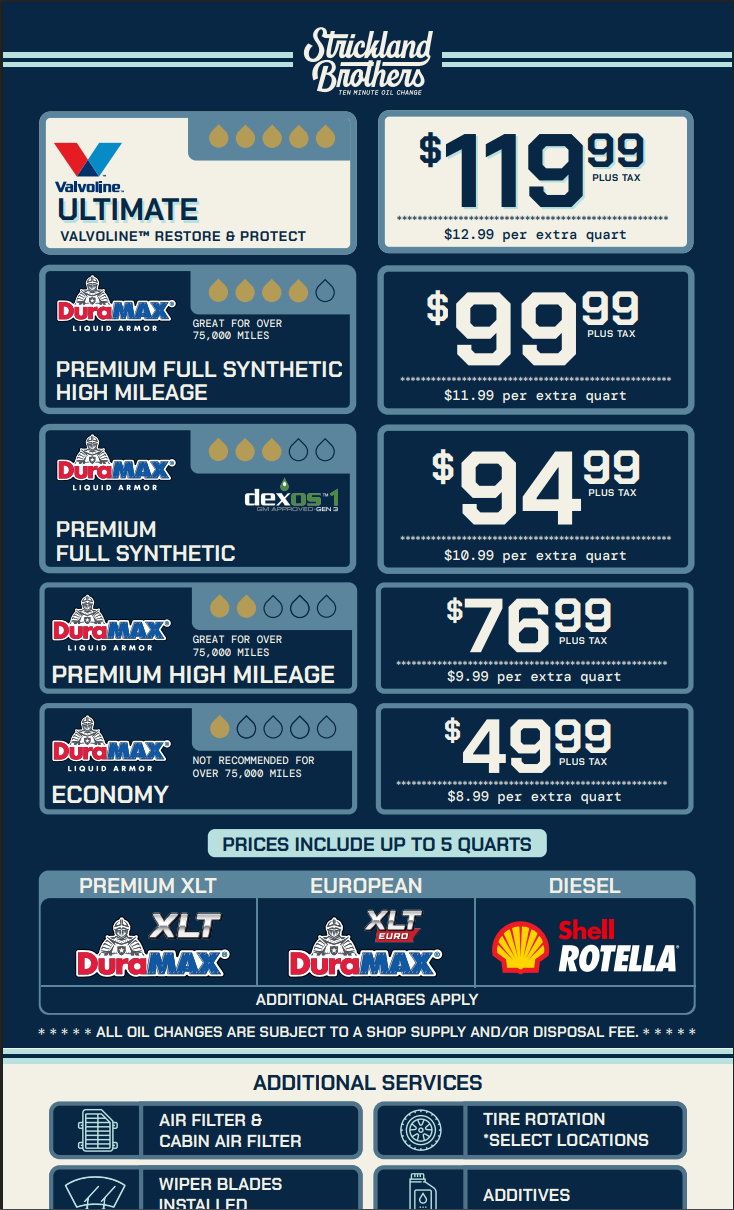
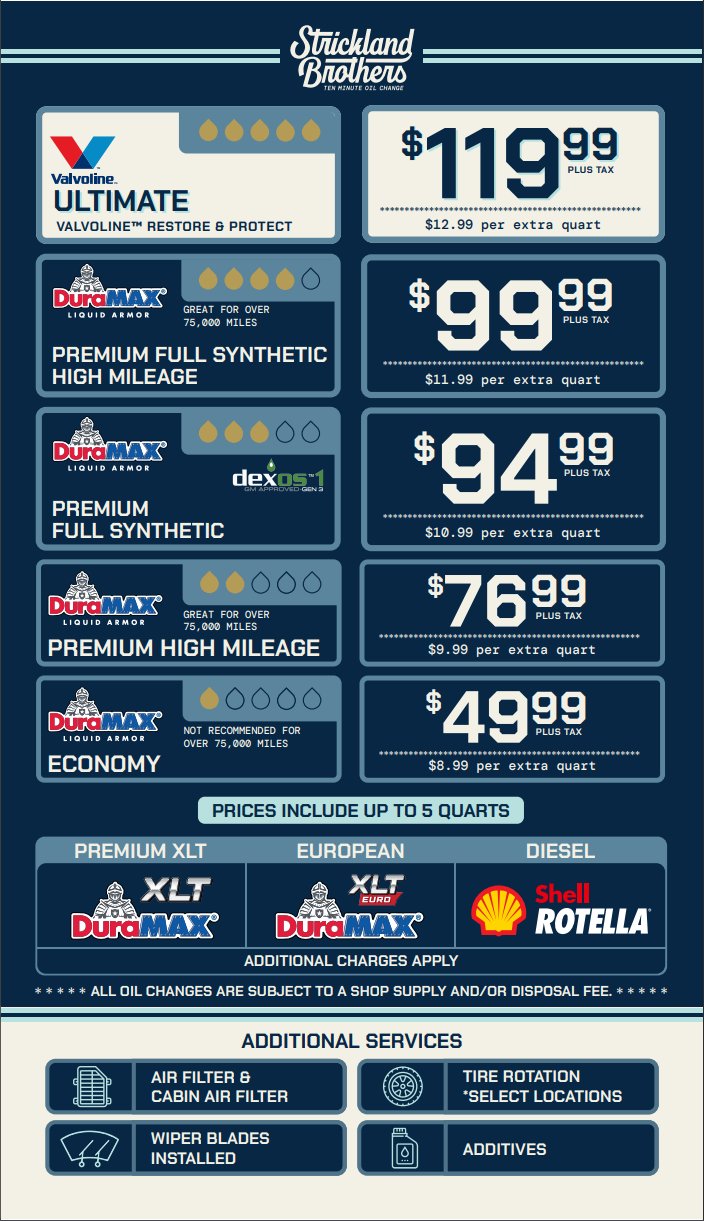
Menu Board: full-height page-1 art + printed-board price treatment
- Swapped in the user's re-exported Menu-Board-Page-1.png (704×1221) — the
  earlier file was cropped at the bottom mid-Additional-Services; this one
  is complete.
- Price is now rendered as the composite the printed board uses: a small
  "$", big whole dollars, a superscript cents pair, and "PLUS TAX" tucked
  directly under the cents (new PriceComposite component), instead of one
  flat "$116.99" string. Sizes are fractions of the big-digit size, tops
  aligned so "$" and cents sit up at the top of the number like the art.
- Re-measured all five price/quart positions + font sizes against the new
  image and wrote them to marketing.menu_board_packages. Patch height
  tightened to 1.28× the font so it covers the printed digits but still
  clears the dotted separator on every row (verified numerically against
  the measured dotted-line positions).
- BOARD_SLOTS simplified to two sets (which keys have a spot, which box is
  the cream ULTIMATE tier).

diff --git a/src/modules/marketing/menuboard/MenuBoardPage.tsx b/src/modules/marketing/menuboard/MenuBoardPage.tsx
@@ -44,22 +44,17 @@ const PRICE_COLUMN_OPTIONS: { value: string; label: string }[] = [
 // staff reference sheet on page 2) is the genuine artwork. The only thing
 // that's ever dynamic is each package's price and per-extra-quart line, so
 // those two spots per package get a small solid patch (matching that box's
-// own real background color, sampled from the image) painted behind the
-// live text — everything else is the image, untouched. Page 1's native
-// size is 734×1210; positions below were measured directly off its pixels
-// as percentages, so they hold at any rendered width.
-// One (rp/"Valvoline Restore & Protect") box is styled cream-bg/navy-text
-// ("ULTIMATE" highlight tier) — every other box on the real board is
-// navy-bg/cream-text. Position/size are % of the image, measured from the
-// actual artwork; admins can still nudge them via "Edit layout" if a future
-// re-export shifts things slightly.
-const BOARD_SLOTS: Record<string, { cream: boolean; price: { x: number; y: number }; quart: { x: number; y: number } }> = {
-  valvoline_restore_protect:   { cream: true,  price: { x: 72.3, y: 14.0 }, quart: { x: 72.8, y: 19.3 } },
-  premium_full_synthetic_hm:   { cream: false, price: { x: 72.5, y: 27.1 }, quart: { x: 72.8, y: 32.6 } },
-  premium_full_synthetic:      { cream: false, price: { x: 73.0, y: 40.3 }, quart: { x: 72.8, y: 45.8 } },
-  premium_hm:                  { cream: false, price: { x: 72.0, y: 51.7 }, quart: { x: 72.7, y: 55.8 } },
-  economy:                     { cream: false, price: { x: 71.8, y: 61.7 }, quart: { x: 72.7, y: 65.7 } },
-}
+// own real background color) painted behind the live text — everything else
+// is the image, untouched. Page 1's native size is 704×1221; the DB's
+// price_pos_x/y / quart_pos_x/y (percentages, measured off the image, and
+// draggable via "Edit layout") hold at any rendered width.
+// Only the rp/"Valvoline Restore & Protect" box is cream-bg/navy-text (the
+// "ULTIMATE" highlight tier); every other box is navy-bg/cream-text. Any
+// package_key not listed here has no known spot on the art and is skipped.
+const CREAM_BOX_KEYS = new Set(['valvoline_restore_protect'])
+const BOARD_SLOT_KEYS = new Set([
+  'valvoline_restore_protect', 'premium_full_synthetic_hm', 'premium_full_synthetic', 'premium_hm', 'economy',
+])
 
 /**
  * Menu Board — an on-screen recreation of the printed lobby/bay board,
@@ -236,29 +231,35 @@ function Board({ location, packages, editMode, updatePackage, resolveQuart, addr
           >
             <img src={menuBoardArt} alt="Menu board" className="block w-full" draggable={false} />
             {packages.map((p) => {
-              const slot = BOARD_SLOTS[p.package_key]
-              if (!slot) return null // no known spot on the real art yet (e.g. Dexos, once mapped this needs its own slot above)
+              if (!BOARD_SLOT_KEYS.has(p.package_key)) return null // no known spot on the art (e.g. Dexos)
               const priceCol = p.price_column
               const price = priceCol ? money((location as any)?.[priceCol]) : null
               const quart = resolveQuart(location?.id ?? '', p.package_key)
-              const patchBg = slot.cream ? 'bg-sb-cream' : 'bg-sb-navy'
-              const patchText = slot.cream ? 'text-sb-navy' : 'text-sb-cream'
+              const cream = CREAM_BOX_KEYS.has(p.package_key)
+              const patchBg = cream ? 'bg-sb-cream' : 'bg-sb-navy'
+              const patchText = cream ? 'text-sb-navy' : 'text-sb-cream'
+              const fs = p.price_font_size * scale
               return (
                 <div key={p.id}>
-                  {/* Patch sized off the package's own font size (not the real
-                      price string) so a shorter price than the art's own
-                      sample ("$49.99") still fully covers the printed digits
-                      behind it. */}
+                  {/* Price — the composite the printed board uses: small "$",
+                      big whole-dollars, superscript cents, "PLUS TAX" tucked
+                      under the cents. The solid patch behind it (min-width
+                      off the font size, not the real string) still fully
+                      covers whatever price was printed on the art. */}
                   <div
                     onPointerDown={(e) => startDrag(e, p, 'price')}
-                    className={`absolute flex items-center justify-center font-heading font-bold leading-none ${patchBg} ${patchText} ${editMode ? 'cursor-move ring-1 ring-sb-sky/60' : ''}`}
+                    className={`absolute flex items-center justify-center font-heading font-bold ${patchBg} ${patchText} ${editMode ? 'cursor-move ring-1 ring-sb-sky/60' : ''}`}
                     style={{
                       left: `${p.price_pos_x}%`, top: `${p.price_pos_y}%`, transform: 'translate(-50%, -50%)',
-                      fontSize: p.price_font_size * scale, minWidth: p.price_font_size * 3.6 * scale, height: p.price_font_size * 1.3 * scale,
-                      padding: `0 ${4 * scale}px`,
+                      minWidth: p.price_font_size * 3.9 * scale, height: p.price_font_size * 1.28 * scale,
+                      padding: `0 ${5 * scale}px`,
                     }}
                   >
-                    {price == null ? '—' : `$${fmtPrice(price)}`}
+                    {price == null ? (
+                      <span style={{ fontSize: fs, lineHeight: 1 }}>—</span>
+                    ) : (
+                      <PriceComposite price={price} fs={fs} />
+                    )}
                   </div>
                   {/* Quart line — a tight rectangle sized to the printed
                       "$X.XX per extra quart" text only, so it doesn't reach up
@@ -298,6 +299,28 @@ function Board({ location, packages, editMode, updatePackage, resolveQuart, addr
         )}
       </CardBody>
     </Card>
+  )
+}
+
+/**
+ * The printed-board price treatment: small "$", big whole dollars, a
+ * superscript cents pair, and "PLUS TAX" tucked directly under the cents.
+ * `fs` is the big-digit size in px (already width-scaled); everything else
+ * is a fraction of it. Tops are aligned so the "$" and cents sit up at the
+ * top of the big number, exactly like the artwork.
+ */
+function PriceComposite({ price, fs }: { price: number; fs: number }) {
+  const whole = Math.floor(price)
+  const cents = Math.round((price - whole) * 100).toString().padStart(2, '0')
+  return (
+    <span className="inline-flex items-start" style={{ lineHeight: 1 }}>
+      <span style={{ fontSize: fs * 0.5, marginTop: fs * 0.05 }}>$</span>
+      <span style={{ fontSize: fs }}>{whole}</span>
+      <span className="inline-flex flex-col items-start" style={{ marginLeft: fs * 0.05, marginTop: fs * 0.02 }}>
+        <span style={{ fontSize: fs * 0.42, lineHeight: 1 }}>{cents}</span>
+        <span style={{ fontSize: fs * 0.17, letterSpacing: '0.06em', marginTop: fs * 0.05, lineHeight: 1 }}>PLUS TAX</span>
+      </span>
+    </span>
   )
 }
 
